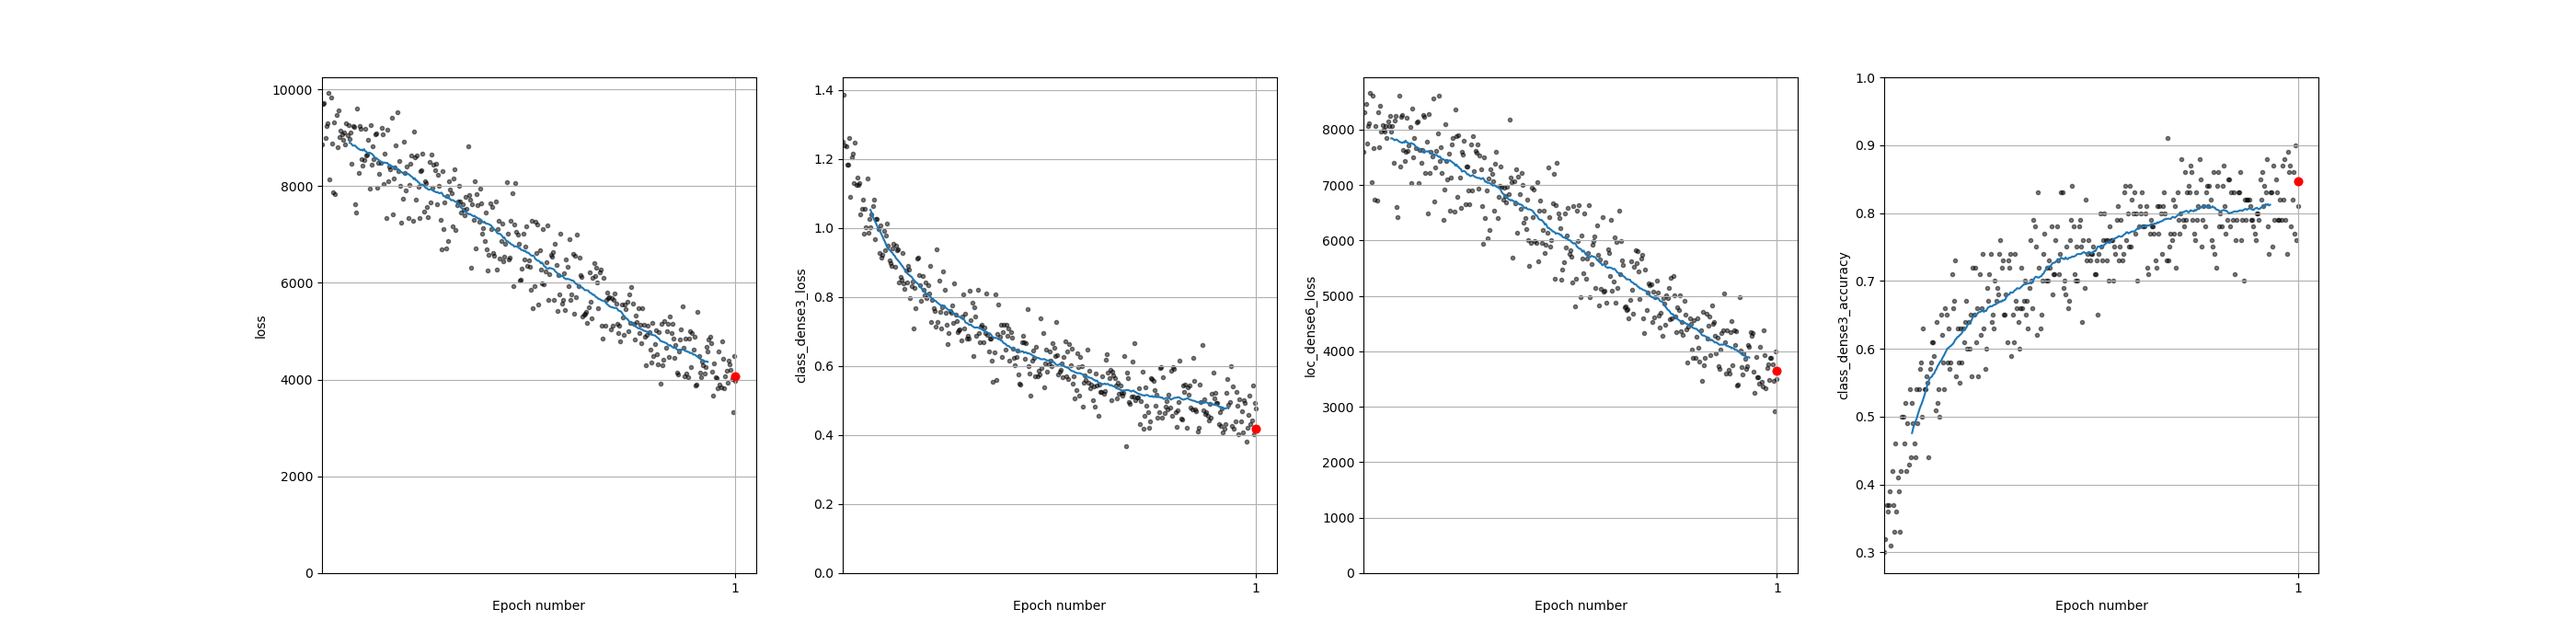
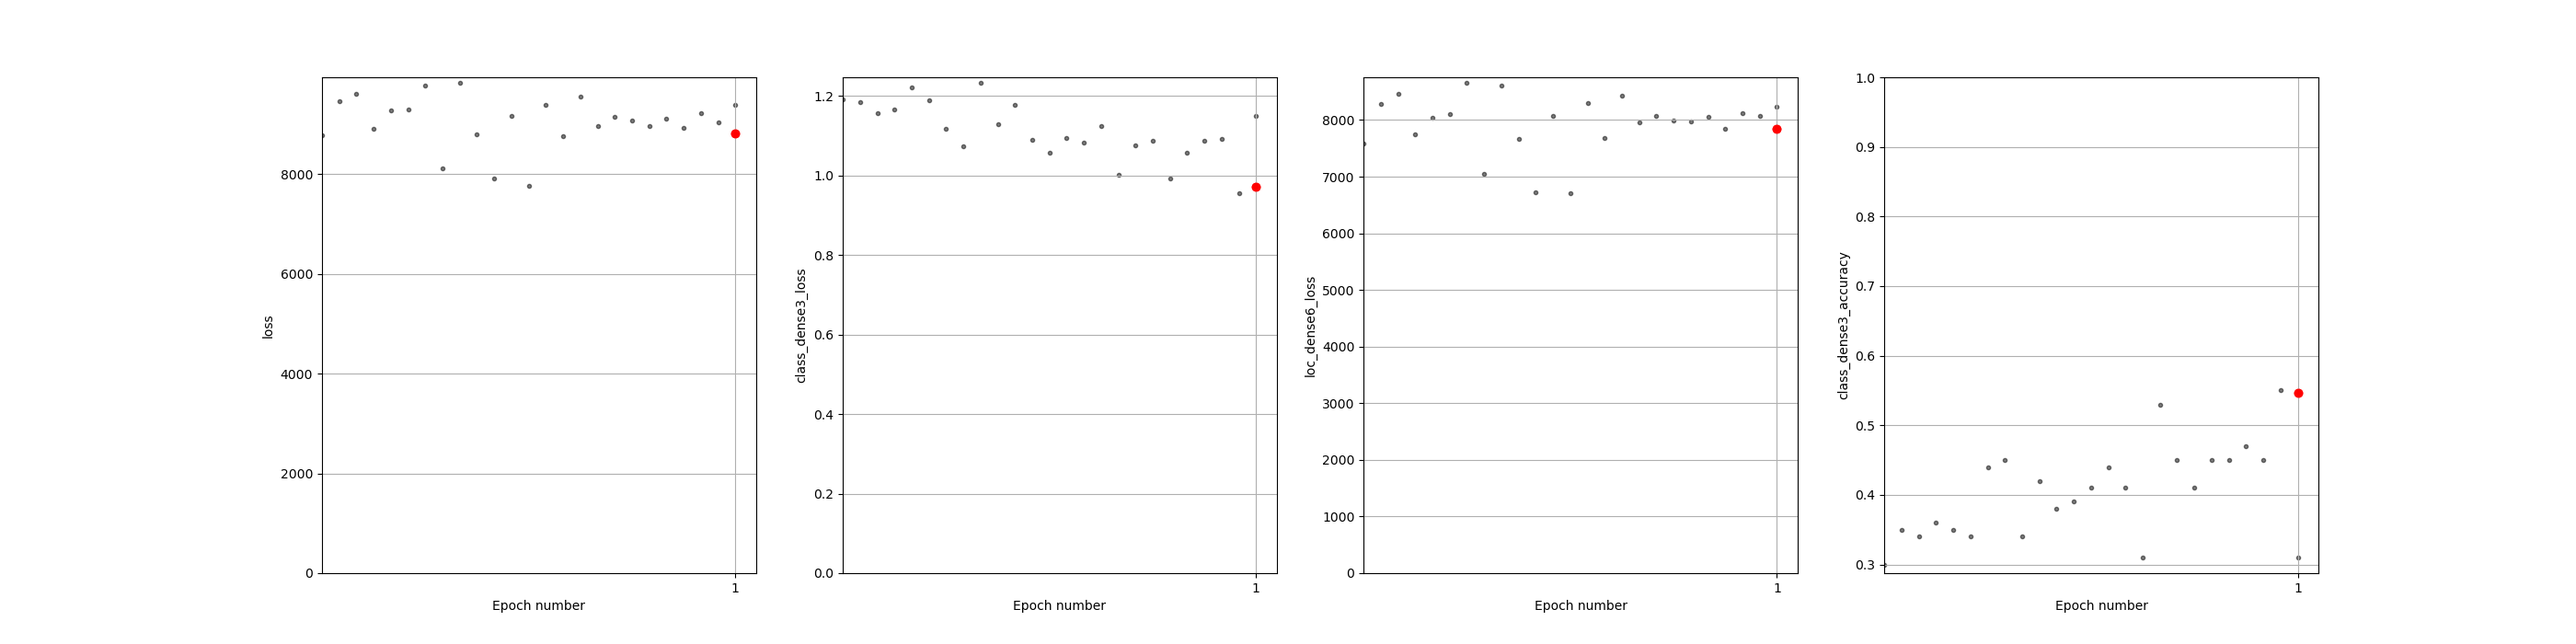
use ModelCheckpoint to save only the best model (validation class accuracy and validation localisation loss).

diff --git a/full_size_example_part2.py b/full_size_example_part2.py
@@ -26,7 +26,7 @@ import tensorflow.keras as keras
 from tensorflow.keras import Input, Model
 from tensorflow.keras import losses, optimizers
 from tensorflow.keras.utils import plot_model
-from tensorflow.keras.callbacks import ReduceLROnPlateau
+from tensorflow.keras.callbacks import ReduceLROnPlateau, ModelCheckpoint
 
 from vudlnet21.neural_net import define_two_head_model, numpy_files_sequence, build_2head_from_epochs
 from vudlnet21.plotting import plot_data_class_loc_caller
@@ -73,7 +73,8 @@ n_plot           = 45
 
 # Option 2: synthetic and real data
 synth_only                        = False
-cnn_settings['n_files_train']     = 75                                              # the number of files that will be used to train the network
+cnn_settings['n_files_train']     = 5                                              # the number of files that will be used to train the network
+#cnn_settings['n_files_train']     = 75                                              # the number of files that will be used to train the network
 cnn_settings['n_files_validate']  = 5                                               # the number of files that wil be used to validate the network (i.e. passed through once per epoch)
 cnn_settings['n_files_test']      = 0                                               # the number of files held back for testing.      
 
@@ -103,7 +104,6 @@ step_06_dir                       = project_outdir / "step_06c_synth_real_effici
 fc_train_step_06                  = True
 fc_n_epochs                       = 200                                              # the number of epochs to train the fully connected network for (ie. the number of times all the training data are passed through the model)
 fc_loss_weights                   = [1000, 1]                                       # the relative weighting of the two losses (classificaiton and localisation) to contribute to the global loss.  Classification first, localisation second.  
-#fc_loss_weights                   = [1, 0]                                       # the relative weighting of the two losses (classificaiton and localisation) to contribute to the global loss.  Classification first, localisation second.  
 fc_optimizer                      = optimizers.Adam(learning_rate = 1e-6)           # 
 fc_n_epoch_class                  = 6                                               # best perfoamce of the classificaiton head at this epoch number.  Used in the model fine tuned in step 07
 fc_n_epoch_loc                    = 12                                              # best perfoamce of the localisation head at this epoch number.  Used in the model fine tuned in step 07
@@ -201,7 +201,7 @@ if model_type == "vgg16":
 elif model_type == 'efficientnet':
     from tensorflow.keras.applications.efficientnet import *
     encoder = EfficientNetB0(weights='imagenet', include_top=False, input_shape = (224,224,3))                                       # VGG16 is used for its convolutional layers and weights (but no fully connected part as we define our own )
-    #model = EfficientNetB7(weights='imagenet', include_top=False, input_shape = (224,224,3))                                       # VGG16 is used for its convolutional layers and weights (but no fully connected part as we define our own )
+    #encoder = EfficientNetB7(weights='imagenet', include_top=False, input_shape = (224,224,3))                                       # VGG16 is used for its convolutional layers and weights (but no fully connected part as we define our own )
 elif model_type == "inception":
     from tensorflow.keras.applications.inception_v3 import InceptionV3
     encoder = InceptionV3(weights='imagenet', include_top=False, input_shape = (224,224,3))
@@ -231,24 +231,30 @@ except:
 # 2: Callbacks
 fc_metrics = save_all_metrics(batch_metric_names)                                                            # first part is a list of the metrics, second is a dict that will store the metrics for each epoch.  
 #epoch_saver = save_model_each_epoch(step_06_dir / f"encoder_2head_fc")                                                       # also initiate the callback to save the model every epoch
-tensorboard_callback = tf.keras.callbacks.TensorBoard(log_dir=str(step_06_dir/ 'logs' / datetime.datetime.now().strftime("%Y%m%d-%H%M%S") )
-                                                      , histogram_freq=1)
+epoch_save_class = ModelCheckpoint(step_06_dir / "best_class_model.h5" ,
+                                   monitor='val_class_dense3_accuracy', verbose = 1, 
+                                   save_best_only=True, save_weights_only=False)
+
+epoch_save_loss = ModelCheckpoint(step_06_dir / "best_loss_model.h5" ,
+                                   monitor='val_loc_dense6_loss', verbose = 1, 
+                                   save_best_only=True, save_weights_only=False)
+
+# tensorboard_callback = tf.keras.callbacks.TensorBoard(log_dir=str(step_06_dir/ 'logs' / datetime.datetime.now().strftime("%Y%m%d-%H%M%S") )
+#                                                       , histogram_freq=1)
 
 fc_training_fig = training_figure_per_epoch(plot_all_metrics, fc_metrics.batch_metrics, fc_metrics.val_metrics, batch_metric_names[:4],                                             # plot metrics for all batches and epochs.  Note, miss last metric as it's localisation accuracy which is meaningless.  
                                             'Fully connected network training', two_column = False, y_epoch_start = 0.8,                             # y_epoch_start original 0.8
                                             out_path = step_06_dir )
 
+reduce_lr = ReduceLROnPlateau(monitor='loss', factor=0.1, patience=2, min_lr=1e-8, verbose = 1)
 
-reduce_lr = ReduceLROnPlateau(monitor='loss', factor=0.1, patience=2, min_lr=1e-8)
+callbacks = [fc_metrics, epoch_save_class, epoch_save_loss, fc_training_fig, reduce_lr]
 
 # 3: train (fit)
 if fc_train_step_06:
-    # encoder_2head_history = encoder_2head.fit(train_generator, epochs = fc_n_epochs, validation_data = validation_generator,
-    #                                           shuffle = False, callbacks = [fc_metrics, epoch_saver, tensorboard_callback, fc_training_fig] )      # shuffle false required for fast opening of batches from numpy files (it ensures idx increases, rather than bein random)
     encoder_2head_history = encoder_2head.fit(train_generator, epochs = fc_n_epochs, validation_data = validation_generator,
-                                             #  shuffle = False, callbacks = [fc_metrics, epoch_saver, tensorboard_callback, fc_training_fig, reduce_lr] )      # shuffle false required for fast opening of batches from numpy files (it ensures idx increases, rather than bein random)
-                                               shuffle = False, callbacks = [fc_metrics, tensorboard_callback, fc_training_fig, reduce_lr] )      # shuffle false required for fast opening of batches from numpy files (it ensures idx increases, rather than bein random)
-                                          #max_queue_size = 4, workers = 4, use_multiprocessing = True)                                 # bit of a nightmare.     
+                                               shuffle = False, callbacks = callbacks )                                                 # shuffle false required for fast opening of batches from numpy files (it ensures idx increases, rather than bein random)
+                                          
     with open(step_06_dir / 'training_history.pkl', 'wb') as f:                                                    # open the file
         pickle.dump(fc_metrics.batch_metrics, f)
         pickle.dump(fc_metrics.val_metrics, f)
@@ -269,6 +275,8 @@ encoder_2head_step_06 = build_2head_from_epochs(encoder_2head,  models_dir = ste
                                               n_epoch_class = fc_n_epoch_class, n_epoch_loc = fc_n_epoch_loc)
 
 #encoder_2head_step_06.evaluate(x = X_test, y = [Y_class_test, Y_loc_test], verbose = 1)                  # check that model is being loaded correctly.  
+
+
 
 Y_class_test_cnn_6, Y_loc_test_cnn_6 = encoder_2head_step_06.predict(X_test, verbose = 1)                                                                     # predict class labels
 
